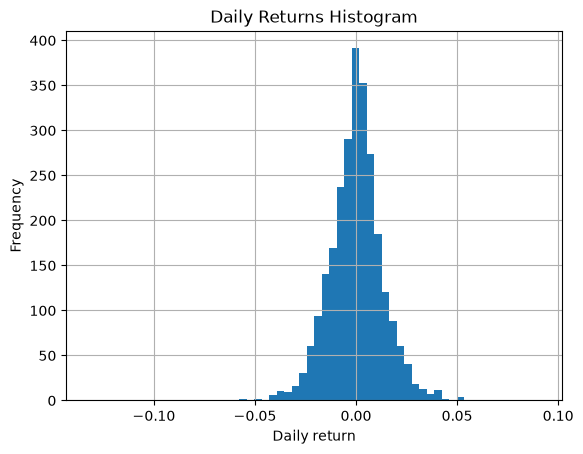
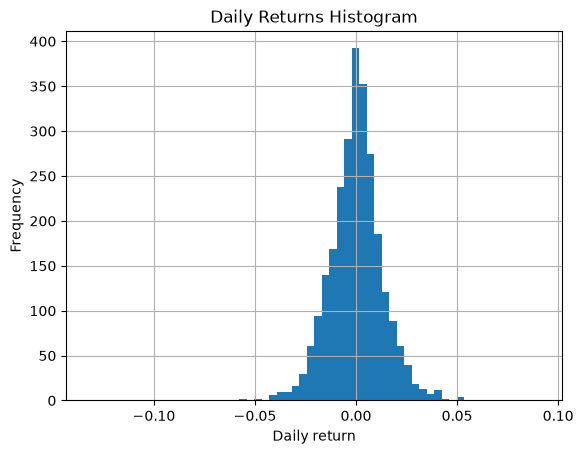
Daily automated notebook update: 2026-10-08

diff --git a/README.md b/README.md
@@ -33,12 +33,12 @@ df, returns
      2016-01-07    20333.339844
      2016-01-08    20453.710938
                        ...     
-     2026-09-29    24523.570312
-     2026-09-30    24613.269531
      2026-10-02    23972.289062
      2026-10-05    24040.339844
      2026-10-06    24280.560547
-     Name: ^HSI, Length: 2646, dtype: float64,
+     2026-10-07    24130.500000
+     2026-10-08    24095.429688
+     Name: ^HSI, Length: 2648, dtype: float64,
      Date
      2016-01-05   -0.006489
      2016-01-06   -0.009812
@@ -46,12 +46,12 @@ df, returns
      2016-01-08    0.005920
      2016-01-11   -0.027634
                      ...   
-     2026-09-29   -0.004827
-     2026-09-30    0.003658
      2026-10-02   -0.026042
      2026-10-05    0.002839
      2026-10-06    0.009992
-     Name: ^HSI, Length: 2645, dtype: float64)
+     2026-10-07   -0.006180
+     2026-10-08   -0.001453
+     Name: ^HSI, Length: 2647, dtype: float64)
 
 
 
@@ -100,11 +100,11 @@ summary
   <tbody>
     <tr>
       <th>0</th>
-      <td>0.000144</td>
-      <td>0.013752</td>
+      <td>0.000141</td>
+      <td>0.013748</td>
       <td>-0.132233</td>
       <td>0.090818</td>
-      <td>2645</td>
+      <td>2647</td>
     </tr>
   </tbody>
 </table>
@@ -176,13 +176,13 @@ pd.DataFrame({
       <th>0</th>
       <td>Historical</td>
       <td>0.95</td>
-      <td>-0.021027</td>
+      <td>-0.021019</td>
     </tr>
     <tr>
       <th>1</th>
       <td>Historical</td>
       <td>0.99</td>
-      <td>-0.034012</td>
+      <td>-0.034007</td>
     </tr>
   </tbody>
 </table>
@@ -238,13 +238,13 @@ pd.DataFrame({
       <th>0</th>
       <td>Parametric (Normal)</td>
       <td>0.95</td>
-      <td>-0.022477</td>
+      <td>-0.022472</td>
     </tr>
     <tr>
       <th>1</th>
       <td>Parametric (Normal)</td>
       <td>0.99</td>
-      <td>-0.031849</td>
+      <td>-0.031841</td>
     </tr>
   </tbody>
 </table>
@@ -289,13 +289,13 @@ compare_var
   <tbody>
     <tr>
       <th>0</th>
-      <td>-0.021027</td>
-      <td>-0.022477</td>
+      <td>-0.021019</td>
+      <td>-0.022472</td>
     </tr>
     <tr>
       <th>1</th>
-      <td>-0.034012</td>
-      <td>-0.031849</td>
+      <td>-0.034007</td>
+      <td>-0.031841</td>
     </tr>
   </tbody>
 </table>
@@ -355,11 +355,11 @@ pd.DataFrame({
     <tr>
       <th>0</th>
       <td>Historical 95% (constant)</td>
-      <td>-0.021027</td>
-      <td>0.050284</td>
+      <td>-0.021019</td>
+      <td>0.050246</td>
       <td>0.05</td>
       <td>133</td>
-      <td>2645</td>
+      <td>2647</td>
     </tr>
   </tbody>
 </table>
@@ -417,11 +417,11 @@ pd.DataFrame({
     <tr>
       <th>0</th>
       <td>Historical 99% (constant)</td>
-      <td>-0.034012</td>
-      <td>0.010208</td>
+      <td>-0.034007</td>
+      <td>0.0102</td>
       <td>0.01</td>
       <td>27</td>
-      <td>2645</td>
+      <td>2647</td>
     </tr>
   </tbody>
 </table>
@@ -479,11 +479,11 @@ pd.DataFrame({
     <tr>
       <th>0</th>
       <td>Parametric 95% (constant)</td>
-      <td>-0.022477</td>
-      <td>0.038185</td>
+      <td>-0.022472</td>
+      <td>0.038156</td>
       <td>0.05</td>
       <td>101</td>
-      <td>2645</td>
+      <td>2647</td>
     </tr>
   </tbody>
 </table>
@@ -541,11 +541,11 @@ pd.DataFrame({
     <tr>
       <th>0</th>
       <td>Parametric 99% (constant)</td>
-      <td>-0.031849</td>
-      <td>0.012476</td>
+      <td>-0.031841</td>
+      <td>0.012467</td>
       <td>0.01</td>
       <td>33</td>
-      <td>2645</td>
+      <td>2647</td>
     </tr>
   </tbody>
 </table>
@@ -603,7 +603,7 @@ tail_stats
     <tr>
       <th>0</th>
       <td>0.01</td>
-      <td>-0.034012</td>
+      <td>-0.034007</td>
       <td>-0.04744</td>
       <td>-0.132233</td>
       <td>27</td>
@@ -917,12 +917,12 @@ report
     <tr>
       <th>0</th>
       <td>Historical VaR 95%</td>
-      <td>-21027.081326</td>
+      <td>-21019.309327</td>
     </tr>
     <tr>
       <th>1</th>
       <td>Parametric VaR 95% (Assuming Normal)</td>
-      <td>-22476.981349</td>
+      <td>-22472.384580</td>
     </tr>
     <tr>
       <th>2</th>
